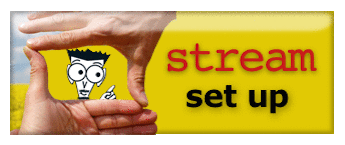
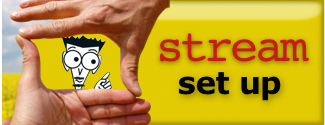
buttons adjjusts

diff --git a/app/assets/stylesheets/streams.scss b/app/assets/stylesheets/streams.scss
@@ -51,10 +51,14 @@ h1#introduction {
 .tam-btonair {
   width: 145px;
   height: 38px;
+	background-color: transparent;
+	border: none;
 }
 .tam-button {
   width: 145px;
   height: 60px;
+	background-color: transparent;
+	border: none;
 }
 .tam-liveoff {
   background-image: url(asset_path('bt_tam_liveoff'));
